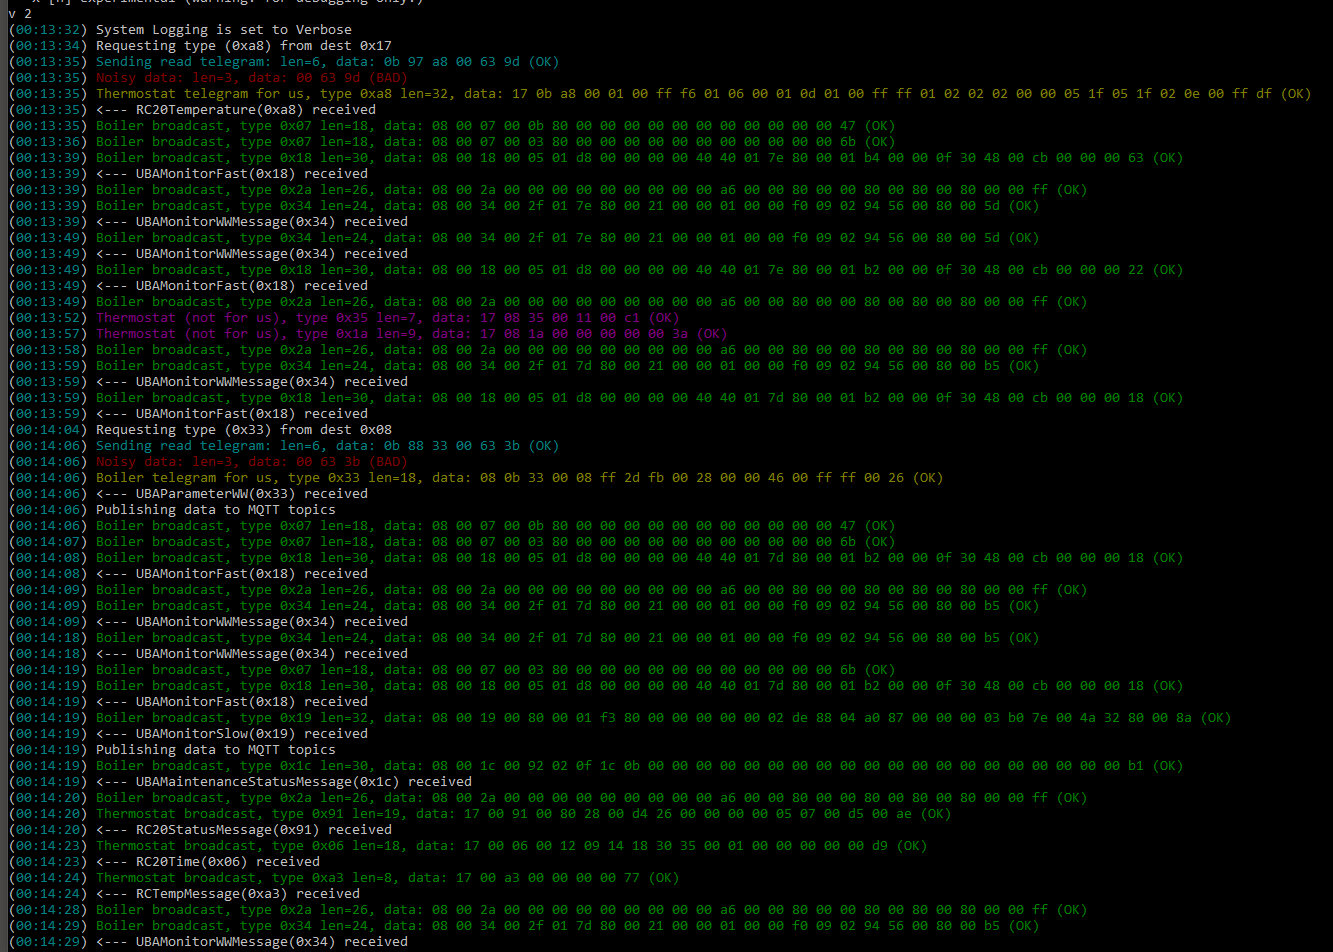
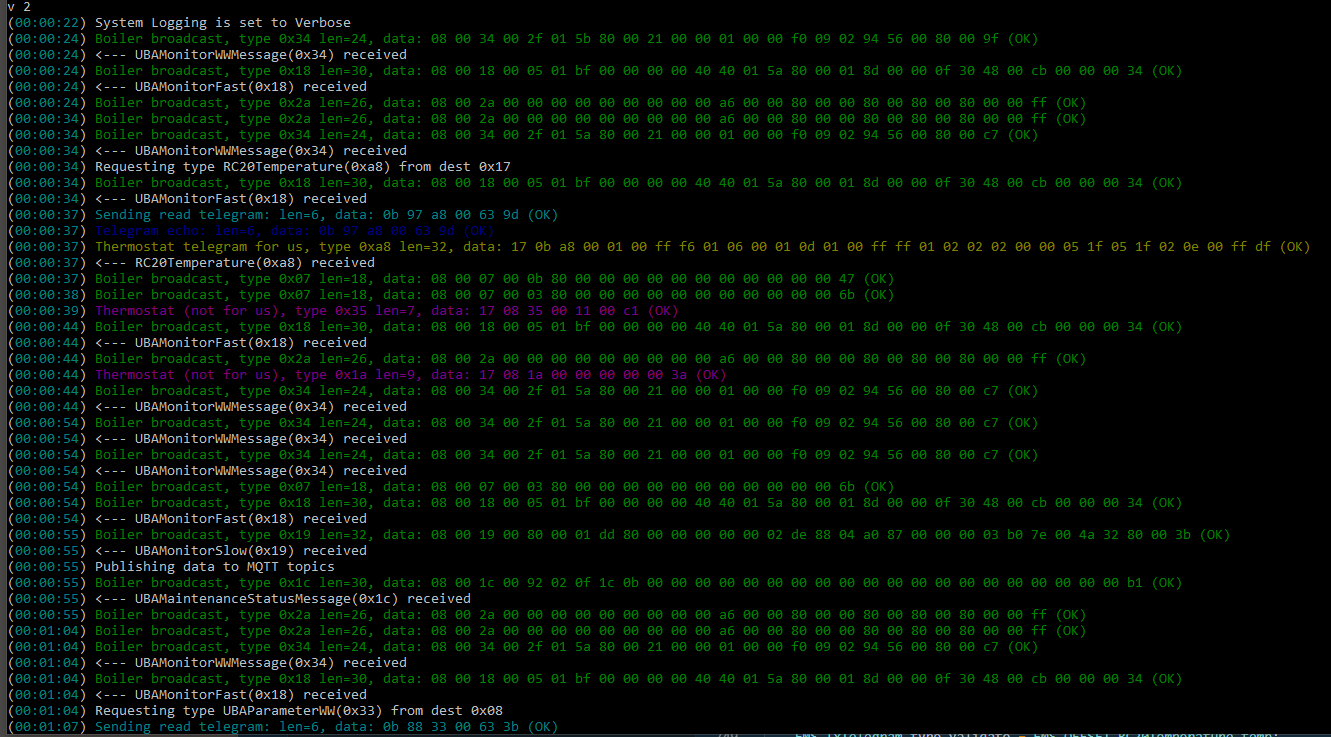
fix error with reporting

Changed region(s): [[0.0, 0.0, 1.0, 1.0]]

diff --git a/src/ems.cpp b/src/ems.cpp
@@ -713,7 +713,7 @@ void ems_doReadCommand(uint8_t type) {
     uint8_t dest = (i == -1 ? EMS_ID_BOILER : EMS_Types[i].src); // default is Boiler
 
     if (ems_getLogging() != EMS_SYS_LOGGING_NONE) {
-        if (i != -1) {
+        if (i == -1) {
             myDebug("Requesting type (0x%02x) from dest 0x%02x\n", type, dest);
         } else {
             myDebug("Requesting type %s(0x%02x) from dest 0x%02x\n", EMS_Types[i].typeString, type, dest);
